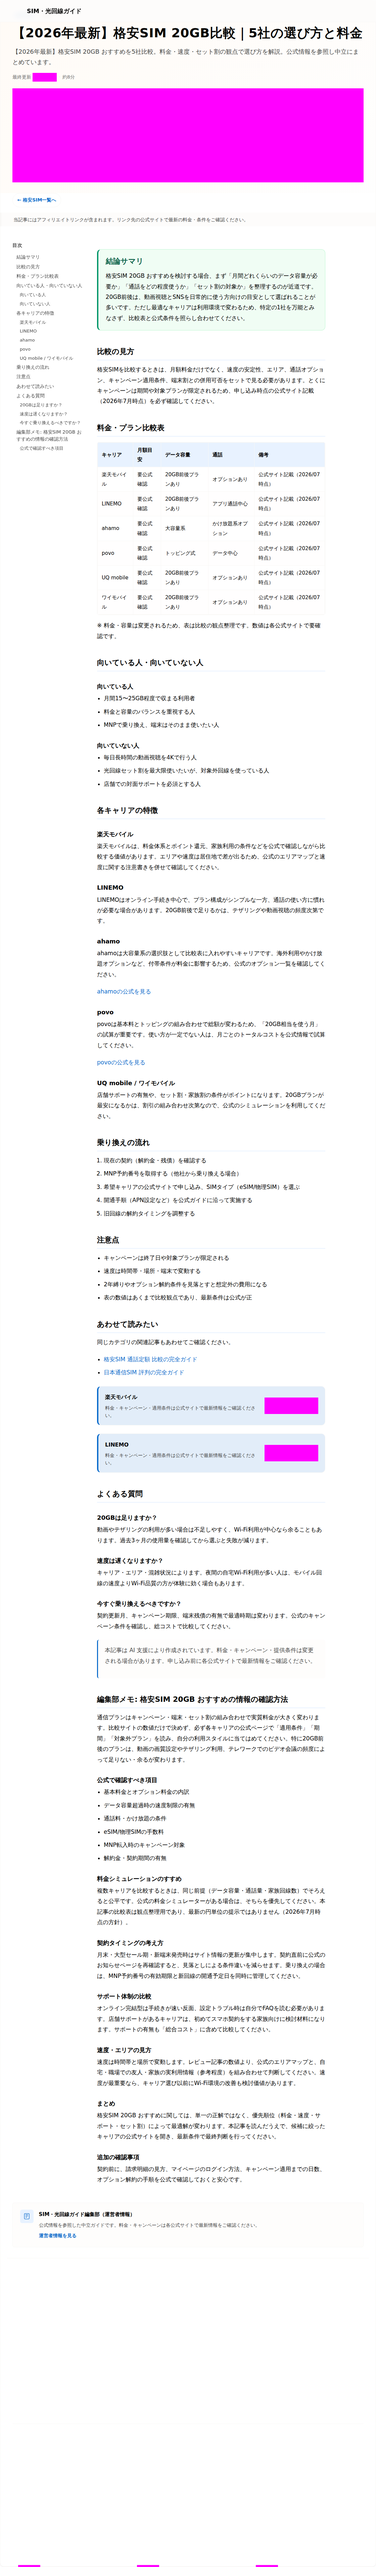
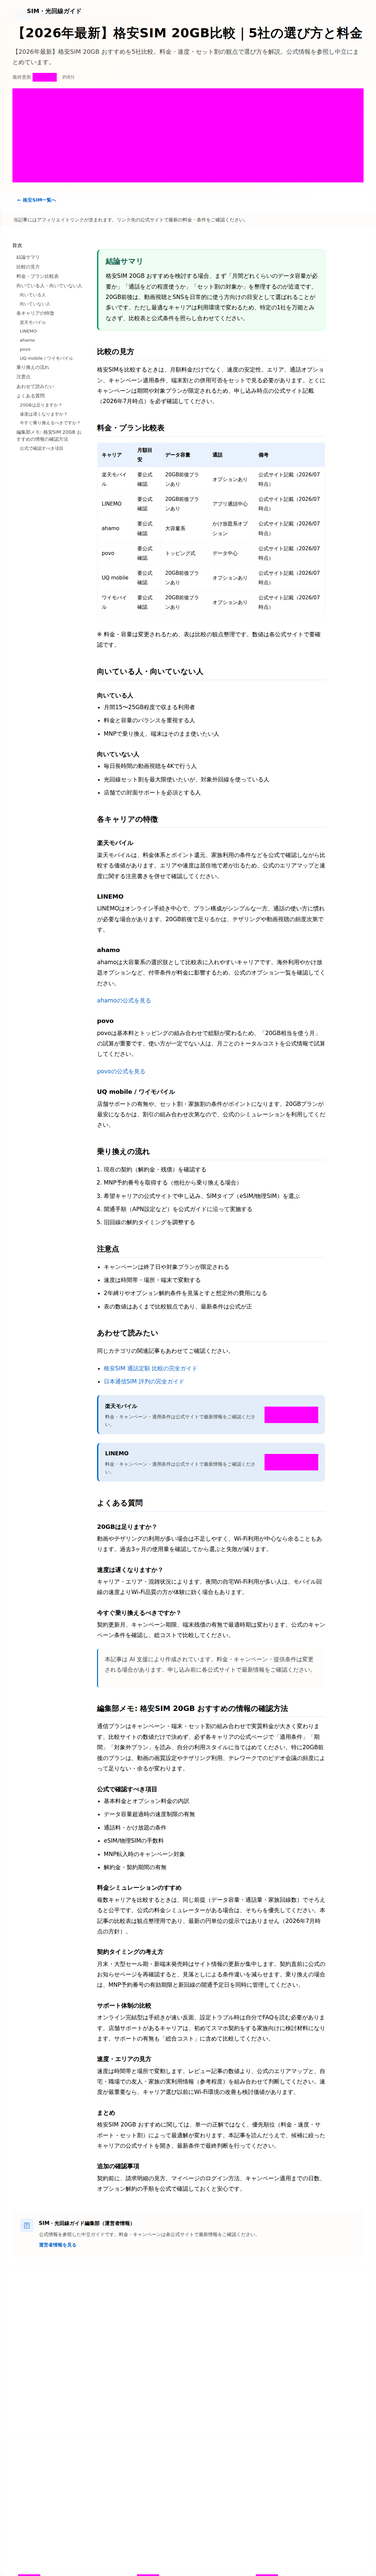
fix(ux): 記事比較表 CLS 対策を復元（UX-TABLE-02） (#122)
* fix(ux): 記事比較表の CLS 対策を復元（UX-TABLE-02）

#119 で落ちた min-height 予約・desktop visibility:hidden・focus-within・thead 700 を prose 表に戻す。

* chore(ci): upload visual diff artifacts for PR comment

* chore(ci): update Playwright visual baselines on Linux

---------

diff --git a/site/src/styles/prose.css b/site/src/styles/prose.css
@@ -52,18 +52,26 @@
   border: 1px solid var(--border);
 }
 
+.prose .table-scroll:focus-within {
+  outline: 2px solid var(--accent);
+  outline-offset: 2px;
+}
+
 .prose .table-scroll::after {
   content: "← 横にスクロールできます →";
   display: block;
   text-align: center;
   font-size: 0.75rem;
+  line-height: 1.2;
   color: var(--text-secondary);
   padding: 0.35rem 0 0;
+  /* Reserve hint height on all viewports to avoid CLS when mobile hint paints */
+  min-height: calc(0.75rem * 1.2 + 0.35rem);
 }
 
 @media (min-width: 641px) {
   .prose .table-scroll::after {
-    display: none;
+    visibility: hidden;
   }
 }
 
@@ -76,7 +84,7 @@
 
 .prose thead {
   background: var(--accent-soft);
-  font-weight: 600;
+  font-weight: 700;
 }
 
 .prose th,
